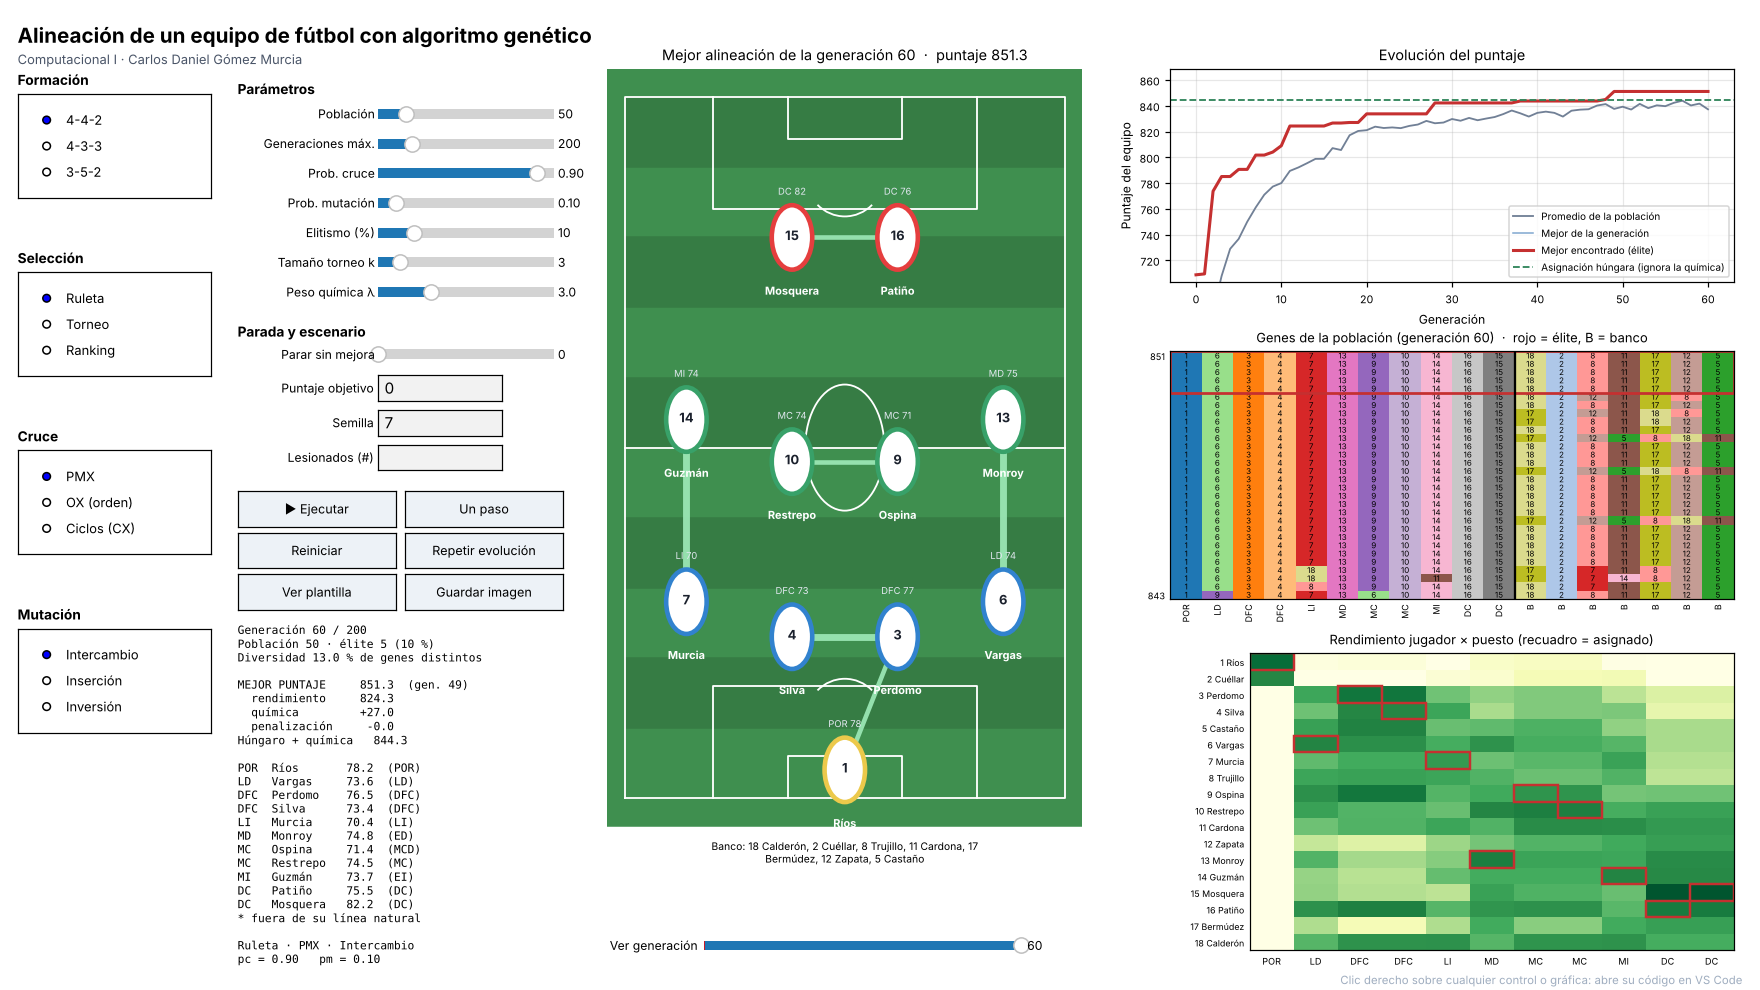
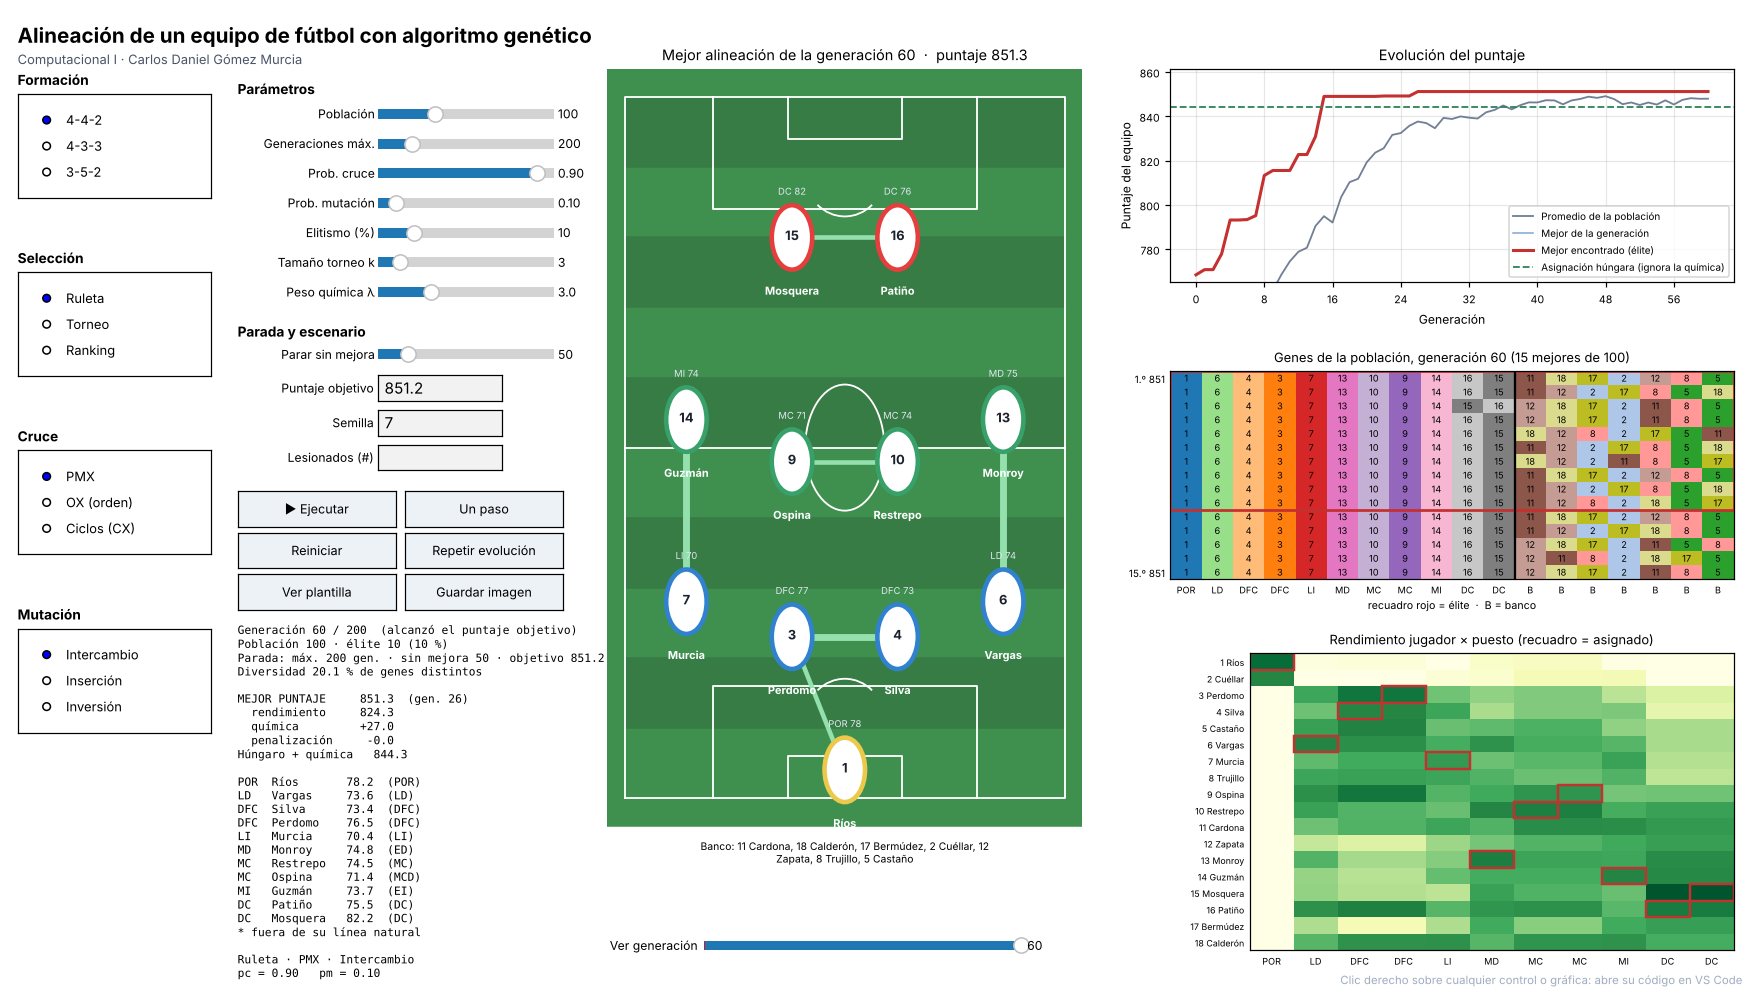
Criterios de parada por defecto, tabla de genes con 15 mejores y ajuste a pantallas pequeñas

diff --git a/interfaz.py b/interfaz.py
@@ -27,6 +27,15 @@ from algoritmo import AlgoritmoGenetico, Configuracion, n_elite
 from evaluacion import ProblemaAlineacion, optimo_sin_quimica
 from operadores import CRUCES, MUTACIONES, SELECCIONES
 
+# Valores por defecto de la ventana (las corridas de experimentos.py usan los suyos).
+POBLACION_VENTANA = 100
+SIN_MEJORA_VENTANA = 50
+LAMBDA_VENTANA = 3.0
+# Mejor puntaje conocido de cada formación con λ = 3 y sin lesionados
+# (resultados/resultados.json), redondeado hacia abajo: es el puntaje objetivo
+# por defecto. Con otro λ o con lesionados el objetivo se desconoce y se apaga (0).
+OBJETIVO_CONOCIDO = {"4-4-2": 851.2, "4-3-3": 848.2, "3-5-2": 845.5}
+
 
 class Simulador:
 
@@ -104,23 +113,24 @@ class Simulador:
                                               list(MUTACIONES), c.mutacion, self._cambio_en_vivo)
 
         self.fig.text(0.135, 0.905, "Parámetros", fontsize=9, weight="bold")
-        self.ax_pob, self.s_pob = self._slider(0.875, "Población", 4, 300, c.tam_poblacion, 1)
+        self.ax_pob, self.s_pob = self._slider(0.875, "Población", 4, 300, POBLACION_VENTANA, 1)
         self.ax_gen, self.s_gen = self._slider(0.845, "Generaciones máx.", 10, 1000, c.generaciones, 10)
         self.ax_pc, self.s_pc = self._slider(0.815, "Prob. cruce", 0, 1, c.prob_cruce, 0.05, "%.2f")
         self.ax_pm, self.s_pm = self._slider(0.785, "Prob. mutación", 0, 1, c.prob_mutacion, 0.01, "%.2f")
         self.ax_eli, self.s_eli = self._slider(0.755, "Elitismo (%)", 0, 50, c.elitismo_pct, 1)
         self.ax_k, self.s_k = self._slider(0.725, "Tamaño torneo k", 2, 10, c.k_torneo, 1)
-        self.ax_lam, self.s_lam = self._slider(0.695, "Peso química λ", 0, 10, 3.0, 0.5, "%.1f")
+        self.ax_lam, self.s_lam = self._slider(0.695, "Peso química λ", 0, 10, LAMBDA_VENTANA, 0.5, "%.1f")
         self.fig.text(0.135, 0.66, "Parada y escenario", fontsize=9, weight="bold")
-        self.ax_sm, self.s_sm = self._slider(0.632, "Parar sin mejora", 0, 300, 0, 10)
-        self.ax_umb, self.t_umb = self._caja(0.595, "Puntaje objetivo", "0", self._cambio_en_vivo)
+        self.ax_sm, self.s_sm = self._slider(0.632, "Parar sin mejora", 0, 300, SIN_MEJORA_VENTANA, 10)
+        self.ax_umb, self.t_umb = self._caja(0.595, "Puntaje objetivo",
+                                             f"{OBJETIVO_CONOCIDO[self.formacion]:g}", self._cambio_en_vivo)
         self.ax_sem, self.t_sem = self._caja(0.560, "Semilla", "7", lambda _: self.reiniciar())
-        self.ax_les, self.t_les = self._caja(0.525, "Lesionados (#)", "", lambda _: self.reiniciar())
+        self.ax_les, self.t_les = self._caja(0.525, "Lesionados (#)", "", self._cambio_escenario)
 
         for s in (self.s_pc, self.s_pm, self.s_eli, self.s_k, self.s_sm, self.s_gen):
             s.on_changed(self._cambio_en_vivo)
-        for s in (self.s_pob, self.s_lam):
-            s.on_changed(lambda _: self.reiniciar())
+        self.s_pob.on_changed(lambda _: self.reiniciar())
+        self.s_lam.on_changed(self._cambio_escenario)
 
         self.ax_run, self.b_run = self._boton([0.135, 0.468, 0.09, 0.036], "▶ Ejecutar", self._ejecutar_pausar)
         self.ax_paso, self.b_paso = self._boton([0.23, 0.468, 0.09, 0.036], "Un paso", self._un_paso)
@@ -142,7 +152,7 @@ class Simulador:
         self.s_ver.valtext.set_fontsize(8)
         self.s_ver.on_changed(self._ver_generacion)
         self.ax_con = self.fig.add_axes([0.665, 0.715, 0.32, 0.215])
-        self.ax_gen_pob = self.fig.add_axes([0.665, 0.395, 0.32, 0.25])
+        self.ax_gen_pob = self.fig.add_axes([0.665, 0.415, 0.32, 0.21])
         self.ax_mat = self.fig.add_axes([0.71, 0.04, 0.275, 0.30])
         self._tabla_destinos()
 
@@ -182,7 +192,25 @@ class Simulador:
     # -------------------------------------------------------------- callbacks
     def _elegir_formacion(self, etiqueta):
         self.formacion = etiqueta
+        self._ajustar_objetivo()
         self.reiniciar()
+
+    def _cambio_escenario(self, _=None):
+        """Cambió λ o los lesionados: el problema es otro y se empieza de nuevo."""
+        self._ajustar_objetivo()
+        self.reiniciar()
+
+    def _ajustar_objetivo(self):
+        """Pone como puntaje objetivo el mejor conocido de la formación.
+
+        Solo se conoce para λ = 3 y sin lesionados; en otro caso se apaga (0),
+        porque un objetivo equivocado haría parar antes de tiempo o nunca.
+        """
+        conocido = abs(float(self.s_lam.val) - LAMBDA_VENTANA) < 1e-9 and not self._lesionados()
+        valor = f"{OBJETIVO_CONOCIDO[self.formacion]:g}" if conocido else "0"
+        self.t_umb.eventson = False
+        self.t_umb.set_val(valor)
+        self.t_umb.eventson = True
 
     def _cambio_en_vivo(self, _=None):
         """Operadores, probabilidades, elitismo y parada cambian SIN reiniciar."""
@@ -281,6 +309,9 @@ class Simulador:
         lineas = [f"Generación {ag.generacion} / {cfg.generaciones}"
                   + (f"  ({ag.motivo_parada()})" if ag.terminado() else ""),
                   f"Población {cfg.tam_poblacion} · élite {n_elite(cfg)} ({cfg.elitismo_pct:.0f} %)",
+                  "Parada: máx. {} gen. · sin mejora {} · objetivo {}".format(
+                      cfg.generaciones, cfg.sin_mejora or "no",
+                      f"{cfg.umbral:g}" if cfg.umbral > 0 else "no"),
                   f"Diversidad {ag.historial.diversidad[-1]:.1f} % de genes distintos",
                   "",
                   f"MEJOR PUNTAJE  {d['total']:8.1f}  (gen. {ag.gen_mejor})",
@@ -396,7 +427,38 @@ class Simulador:
         self.fig.canvas.draw_idle()
 
 
+def ajustar_a_pantalla(fig, ancho_pulg=16, alto_pulg=9):
+    """Encoge la ventana completa si la pantalla es más pequeña que la figura.
+
+    En vez de cortar la ventana o amontonar los controles, se baja la
+    resolución (dpi) de la figura en la misma proporción: todo, letras
+    incluidas, se ve igual que en una pantalla grande pero más pequeño.
+    Devuelve la escala aplicada (1 = sin cambios).
+    """
+    try:
+        ventana = fig.canvas.manager.window
+        ancho = ventana.winfo_screenwidth()
+        alto = ventana.winfo_screenheight()
+    except Exception:
+        return 1.0                                   # otro backend o sin pantalla: no se toca
+    dpi = fig.dpi
+    escala = min(1.0, (ancho - 40) / (ancho_pulg * dpi), (alto - 120) / (alto_pulg * dpi))
+    if escala < 1.0:
+        # _original_dpi es el dpi sin el factor de pantallas de alta densidad;
+        # Matplotlib lo vuelve a multiplicar si cambia ese factor.
+        if hasattr(fig, "_original_dpi"):
+            fig._original_dpi *= escala
+        fig.set_dpi(dpi * escala)
+        fig.set_size_inches(ancho_pulg, alto_pulg, forward=True)
+        try:
+            ventana.geometry("+0+0")                 # esquina superior izquierda
+        except Exception:
+            pass
+    return escala
+
+
 def lanzar():
     sim = Simulador()
+    ajustar_a_pantalla(sim.fig)
     plt.show()
     return sim

diff --git a/graficas.py b/graficas.py
@@ -13,6 +13,7 @@ from matplotlib.collections import PathCollection
 from matplotlib.font_manager import FontProperties
 from matplotlib.patches import Arc, Circle, Rectangle
 from matplotlib.textpath import TextPath
+from matplotlib.ticker import MaxNLocator
 from matplotlib.transforms import Affine2D
 
 import plantilla as pl
@@ -125,6 +126,7 @@ def dibujar_convergencia(ax, historial, referencia=None, gen_marcada=None, ancho
     ax.set_ylim(bajo - 0.04 * (alto - bajo), alto + 0.12 * (alto - bajo + 1))
     if ancho_x:
         ax.set_xlim(0, ancho_x)
+    ax.xaxis.set_major_locator(MaxNLocator(integer=True))
     ax.set_xlabel("Generación", fontsize=8)
     ax.set_ylabel("Puntaje del equipo", fontsize=8)
     ax.set_title("Evolución del puntaje", fontsize=9.5)
@@ -160,33 +162,36 @@ def _numeros_en_celdas(ax, P, fontsize):
                                          facecolors="k", edgecolors="none"))
 
 
-def dibujar_genes(ax, problema, poblacion, puntajes, n_elite=0, max_filas=30, generacion=None):
+def dibujar_genes(ax, problema, poblacion, puntajes, n_elite=0, max_filas=15, generacion=None):
     """Cada fila es un cromosoma (del mejor al peor) y cada columna un gen.
 
     El color de la celda es el jugador que ocupa ese gen. Al principio la
     tabla es un mosaico de colores; con las generaciones las columnas se
     vuelven de un solo color: la población converge a una alineación.
+    Se muestran solo los `max_filas` mejores para que los números se lean
+    también en pantallas pequeñas.
     """
     ax.clear()
+    total = len(poblacion)
     P = np.asarray(poblacion)[:max_filas]
     filas, L = P.shape
     imagen = np.array([[COLORES_JUGADOR[j] for j in fila] for fila in P])
     ax.imshow(imagen, aspect="auto", interpolation="nearest")
-    if filas <= 30:
-        _numeros_en_celdas(ax, P, fontsize=5.2)
+    _numeros_en_celdas(ax, P, fontsize=6)
     ax.axvline(pl.N_TITULARES - 0.5, color="k", lw=1.5)
     if n_elite:
         ax.add_patch(Rectangle((-0.5, -0.5), L, min(n_elite, filas), fill=False, ec=ROJO, lw=1.8))
     siglas = [p[0] for p in problema.puestos] + ["B"] * (L - pl.N_TITULARES)
     ax.set_xticks(range(L))
-    ax.set_xticklabels(siglas, fontsize=5.8, rotation=90)
+    ax.set_xticklabels(siglas, fontsize=6)
     ax.set_yticks([0, filas - 1])
-    ax.set_yticklabels([f"{puntajes[0]:.0f}", f"{puntajes[filas - 1]:.0f}"], fontsize=6)
+    ax.set_yticklabels([f"1.º {puntajes[0]:.0f}", f"{filas}.º {puntajes[filas - 1]:.0f}"], fontsize=6.5)
     ax.tick_params(length=0)
+    ax.set_xlabel("recuadro rojo = élite  ·  B = banco", fontsize=7, labelpad=2)
     t = "Genes de la población"
     if generacion is not None:
-        t += f" (generación {generacion})"
-    ax.set_title(t + "  ·  rojo = élite, B = banco", fontsize=8.5)
+        t += f", generación {generacion}"
+    ax.set_title(f"{t} ({filas} mejores de {total})", fontsize=8.5)
 
 
 # ---------------------------------------------------------------------------

diff --git a/pruebas.py b/pruebas.py
@@ -219,6 +219,33 @@ def test_interfaz_controles():
     assert os.path.getsize(ruta) > 10000
 
 
+def test_criterios_de_parada_por_defecto():
+    from interfaz import OBJETIVO_CONOCIDO, Simulador
+    sim = Simulador()
+    cfg = sim.ag.cfg
+    assert cfg.tam_poblacion == 100 and cfg.generaciones == 200
+    assert cfg.sin_mejora == 50 and cfg.umbral == OBJETIVO_CONOCIDO["4-4-2"]
+    while not sim.ag.terminado():                 # con los valores por defecto para antes de 200
+        sim.ag.paso()
+    assert sim.ag.generacion < 200 and sim.ag.motivo_parada() != "llegó al máximo de generaciones"
+    sim._elegir_formacion("3-5-2")                # el objetivo sigue a la formación
+    assert sim.ag.cfg.umbral == OBJETIVO_CONOCIDO["3-5-2"]
+    sim.s_lam.set_val(5.0)                        # con otro λ el óptimo se desconoce: objetivo apagado
+    assert sim.ag.cfg.umbral == 0
+    sim.s_lam.set_val(3.0)
+    sim.t_les.set_val("1")                        # con lesionados también se apaga
+    assert sim.ag.cfg.umbral == 0
+    sim.t_les.set_val("")
+    assert sim.ag.cfg.umbral == OBJETIVO_CONOCIDO["3-5-2"]
+    # Ningún objetivo supera el mejor puntaje conocido de su formación (si no, nunca pararía por él).
+    import json
+    ruta = os.path.join(os.path.dirname(os.path.abspath(__file__)), "resultados", "resultados.json")
+    with open(ruta, encoding="utf-8") as fh:
+        formaciones = json.load(fh)["formaciones"]
+    for f, objetivo in OBJETIVO_CONOCIDO.items():
+        assert objetivo <= formaciones[f]["puntaje"], f
+
+
 def test_clic_derecho():
     from interfaz import Simulador
     pedidos = []

diff --git a/LEEME.md b/LEEME.md
@@ -15,7 +15,7 @@ Un entrenador tiene una plantilla de 18 jugadores y debe decidir quién juega en
 1. Tener Python 3.10 o superior.
 2. En una terminal abierta en esta carpeta: `pip install -r requirements.txt`
 3. Abrir el simulador: `python main.py`
-4. Comprobar que todo funciona: `python pruebas.py` (veintiuna comprobaciones).
+4. Comprobar que todo funciona: `python pruebas.py` (veintidós comprobaciones).
 5. Regenerar las figuras y los números del informe: `python generar_resultados.py` (unos seis minutos; quedan en `resultados/`).
 
 ## Cómo está planteado
@@ -24,13 +24,13 @@ Un entrenador tiene una plantilla de 18 jugadores y debe decidir quién juega en
 |---|---|
 | Cromosoma | Una alineación: permutación de los 18 jugadores. Los genes 1 a 11 son los puestos de la formación y los genes 12 a 18 son el banco |
 | Gen | El jugador que ocupa una posición del cromosoma; trae sus estadísticas (ritmo, tiro, pase, regate, defensa, físico, portería), su pie y su estado físico |
-| Población | Conjunto de alineaciones (50 por defecto) |
+| Población | Conjunto de alineaciones (100 por defecto en la ventana; los experimentos usan 50) |
 | Evaluación | Σ rendimiento de los titulares + λ · química entre vecinos − penalizaciones |
 | Selección | Ruleta (por defecto), torneo o ranking |
 | Cruce | PMX, OX (orden) o ciclos (CX), que nunca repiten jugadores |
 | Mutación | Intercambio (por defecto), inserción o inversión |
 | Elitismo | Porcentaje de las mejores alineaciones que pasa intacto (10 % por defecto) |
-| Parada | Máximo de generaciones, generaciones sin mejora o puntaje objetivo |
+| Parada | El primero que se cumpla: máximo de generaciones (200), generaciones sin mejora (50) o puntaje objetivo (el mejor conocido de la formación: 851,2 en el 4-4-2, 848,2 en el 4-3-3 y 845,5 en el 3-5-2; se apaga con otro λ o con lesionados) |
 
 ## Archivos
 
@@ -53,6 +53,8 @@ Un entrenador tiene una plantilla de 18 jugadores y debe decidir quién juega en
 * Selección, cruce, mutación, probabilidades, elitismo, tamaño del torneo y condiciones de parada se cambian **mientras corre**, sin perder la búsqueda.
 * Cambiar la formación, la población, el peso de la química, la semilla o los lesionados empieza de nuevo.
 * **Lesionados (#)** recibe los números de los jugadores separados por coma (por ejemplo `10, 3`).
+* Si la pantalla es más pequeña que la ventana (por ejemplo, un portátil de 1366 × 768), todo se reduce en la misma proporción para que quepa completo.
+* La tabla de genes muestra los 15 mejores cromosomas de la población, con el puesto en el ranking y el puntaje del primero y del último.
 * **Ver generación** permite volver a cualquier generación para ver la mejor alineación y los genes de la población en ese momento.
 * **Repetir evolución** reproduce toda la búsqueda desde la generación 0.
 * **Ver plantilla** muestra las estadísticas de los jugadores y los pesos de cada rol.

diff --git a/CLAUDE.md b/CLAUDE.md
@@ -11,7 +11,9 @@ Entrega final de Computacional I (profesor Jesús Emilio Pinto Lopera), autor Ca
 * Sustentaciones desde el lunes 30 de noviembre.
 
 ## Estado (19 nov 2026)
-* Simulador terminado; `pruebas.py` tiene 21 comprobaciones y todas pasan.
+* Simulador terminado; `pruebas.py` tiene 22 comprobaciones y todas pasan.
+* 25 nov: la ventana trae activos los tres criterios de parada: máximo 200 generaciones, 50 sin mejora y puntaje objetivo = mejor conocido de la formación (`OBJETIVO_CONOCIDO` en `interfaz.py`; se apaga con λ ≠ 3 o con lesionados). La población por defecto de la ventana es 100. Así suele parar entre la generación 25 y 155 en vez de llegar a 200. `Configuracion` y `experimentos.py` no cambiaron, así que ninguna cifra de `resultados/` cambia.
+* 25 nov: la tabla de genes muestra los 15 mejores («Genes de la población, generación N (15 mejores de M)», etiquetas «1.º» y «15.º», leyenda debajo) y `ajustar_a_pantalla` en `interfaz.py` reduce el dpi de la figura cuando la pantalla es pequeña (probado en 1366 × 768 y 1920 × 1080 con TkAgg).
 * Resultados en `resultados/` (`generar_resultados.py`, unos seis minutos). Incluyen experimentos con el algoritmo y con el fenómeno: química contra método húngaro, barrido del peso de la química (λ = 0, 1, 3, 5, 10), formaciones e importancia de cada titular (se lesiona uno por uno).
 * La tabla de genes dibuja cada número como una figura vectorial reutilizada (18 objetos en vez de 540 textos); no volver a `ax.text` por celda, porque la ventana se vuelve lenta.
 * La mutación por inversión exige un tramo de al menos 2 genes; con eso PMX + inversión da 30 % de éxito y ciclos + inversión 10 %.
